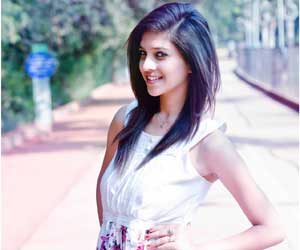
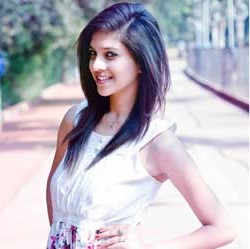
FIX: happy clients added

diff --git a/about.html b/about.html
@@ -171,7 +171,7 @@ $(document).ready(function(){
 		<div class="col-sm-6 testi_grid list-item-0">
 			<blockquote class="testi_grid_blockquote">
 				<figure class="featured-thumbnail">
-					<img src="images/a1.jpg" class="img-responsive" alt=""/>
+					<img src="images/p2.jpg" class="img-responsive" alt=""/>
 				</figure>
 				<div><a href="#">Aenean nonummy hendrerit mau phasellu porta. Fusce suscipit varius mi sed. Cum sociis natoque penatibus et magnis dis parturient montes, nascetur ridiculus mus. Nulla dui.…</a>
 				<div class="clearfix"></div>
@@ -182,7 +182,7 @@ $(document).ready(function(){
 		<div class="col-sm-6 testi_grid list-item-1">
 			<blockquote class="testi_grid_blockquote">
 				<figure class="featured-thumbnail">
-					<img src="images/a2.jpg" class="img-responsive" alt=""/>
+					<img src="images/3.jpg" class="img-responsive" alt=""/>
 				</figure>
 				<div><a href="#">Aenean nonummy hendrerit mau phasellu porta. Fusce suscipit varius mi sed. Cum sociis natoque penatibus et magnis dis parturient montes, nascetur ridiculus mus. Nulla dui.…</a>
 				<div class="clearfix"></div>
